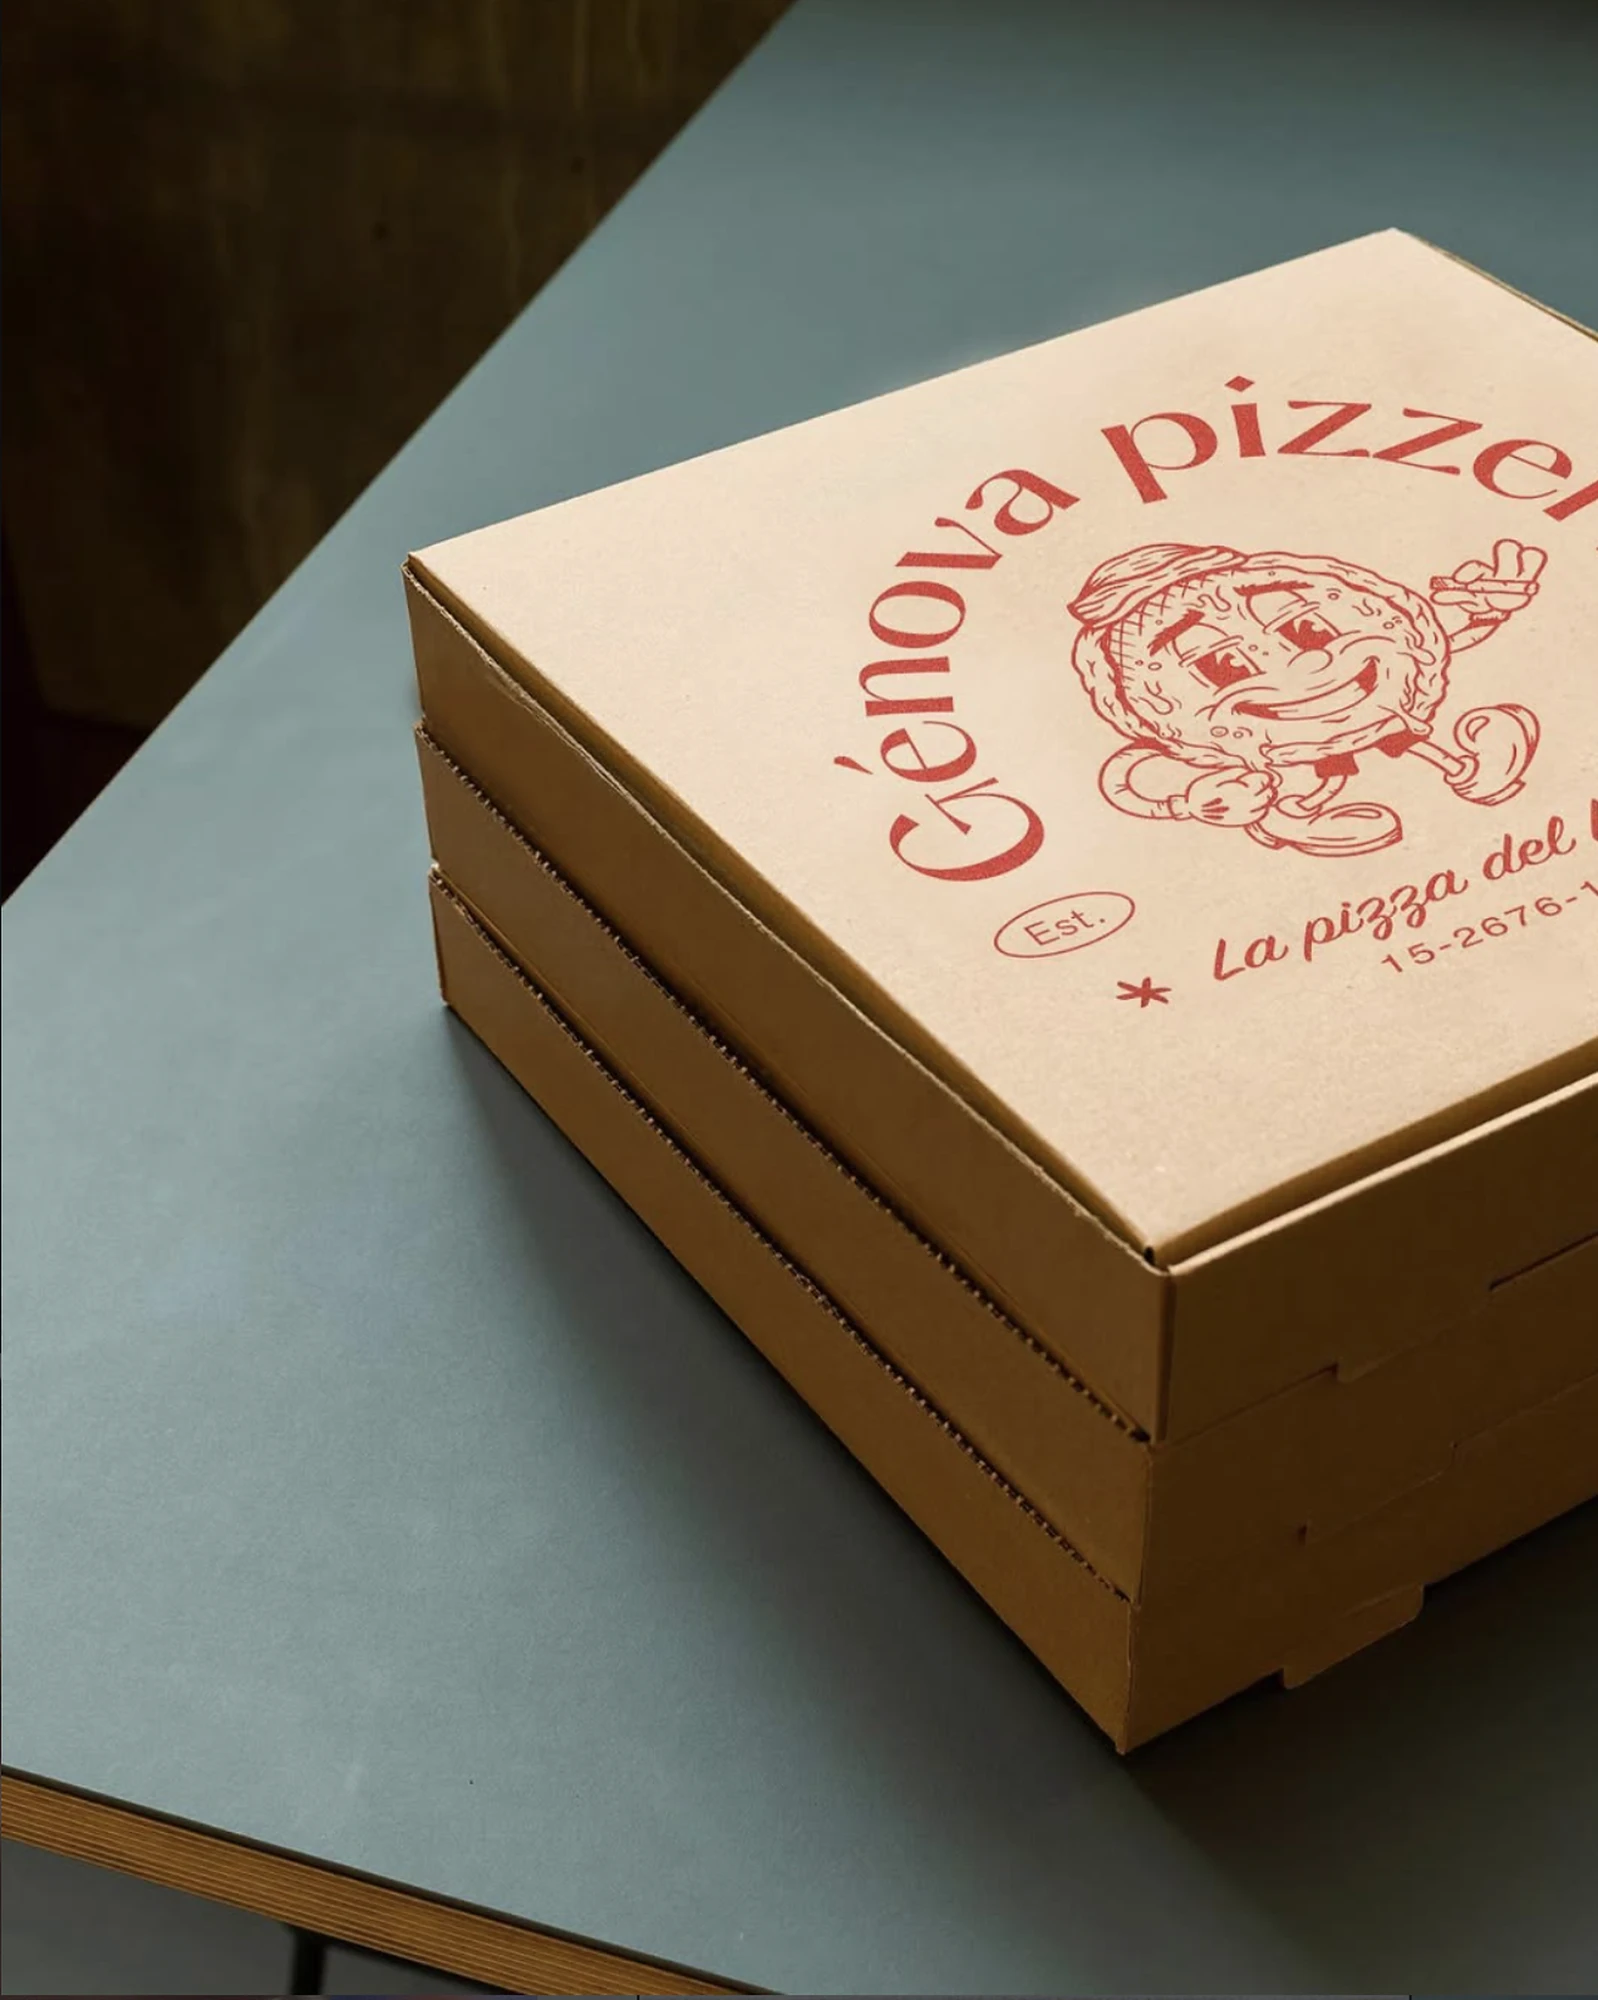
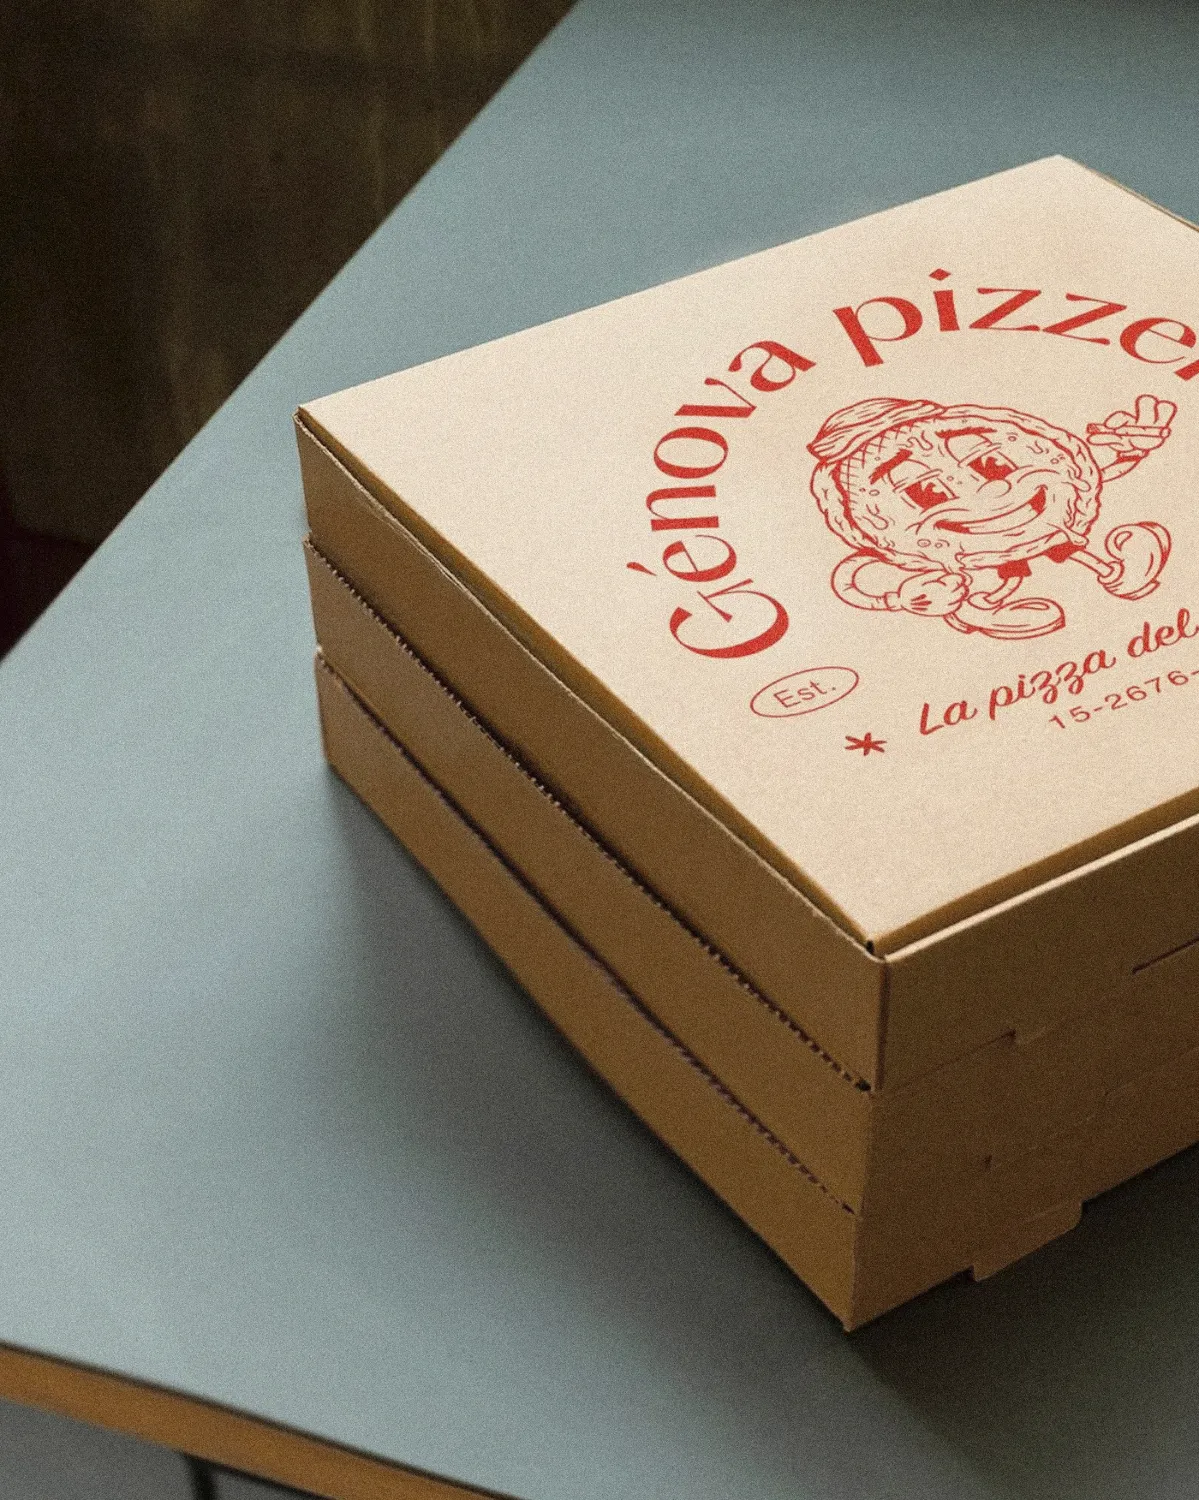
Hover effect on touch: follows the finger while it presses and drags on a carousel photo; Genova cover: grainy pizza boxes

diff --git a/src/data/imageMetadata.ts b/src/data/imageMetadata.ts
@@ -26,7 +26,7 @@ export const imageMetadata: Record<string, { width: number; height: number }> = 
   '/02_Projects/01_Winona/19_Winona.webp': { width: 3110, height: 1738 },
   '/02_Projects/01_Winona/20_Winona.webp': { width: 1452, height: 1909 },
   '/02_Projects/01_Winona/21_Winona.webp': { width: 1636, height: 1914 },
-  '/02_Projects/02_Genova/01_Genova_Cover.webp': { width: 1598, height: 2000 },
+  '/02_Projects/02_Genova/01_Genova_Cover.webp': { width: 1199, height: 1500 },
   '/02_Projects/03_Amazon/01_Amazon_Portada.jpg': { width: 660, height: 454 },
   '/02_Projects/03_Amazon/01_Amazon_Video.webp': { width: 1280, height: 720 },
   '/02_Projects/04_MaxMaher/01_MaxMaher.webp': { width: 2400, height: 1342 },
